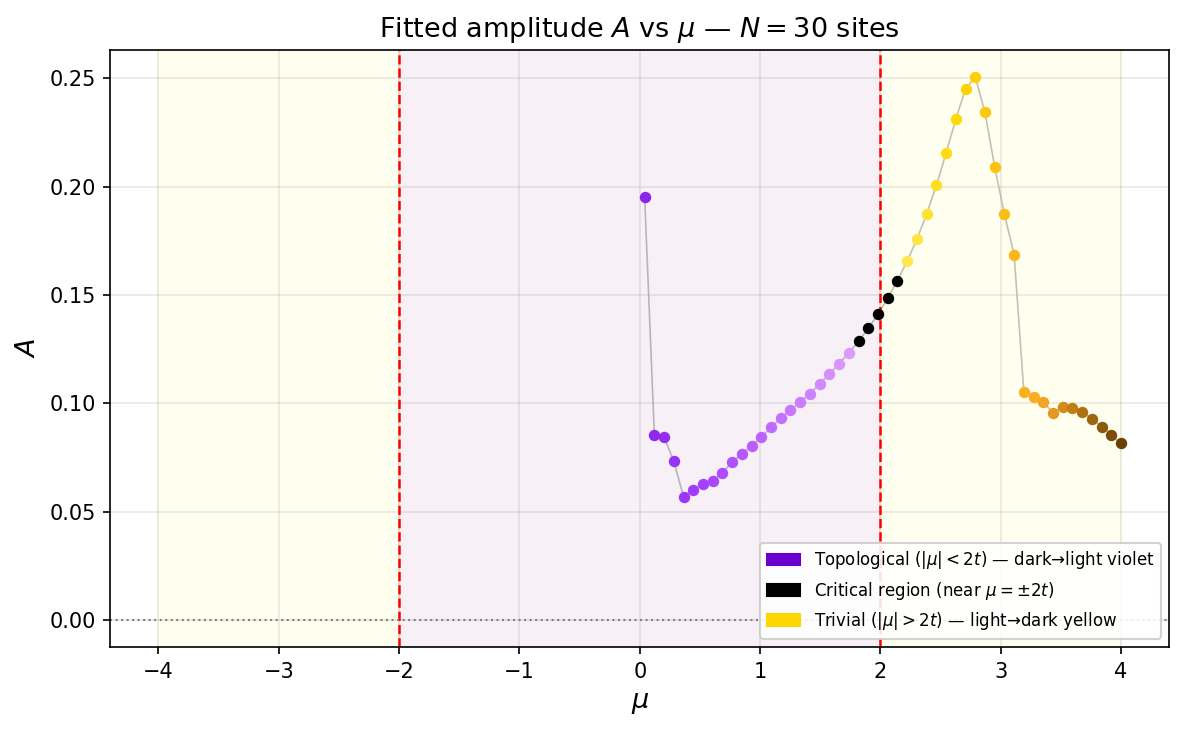
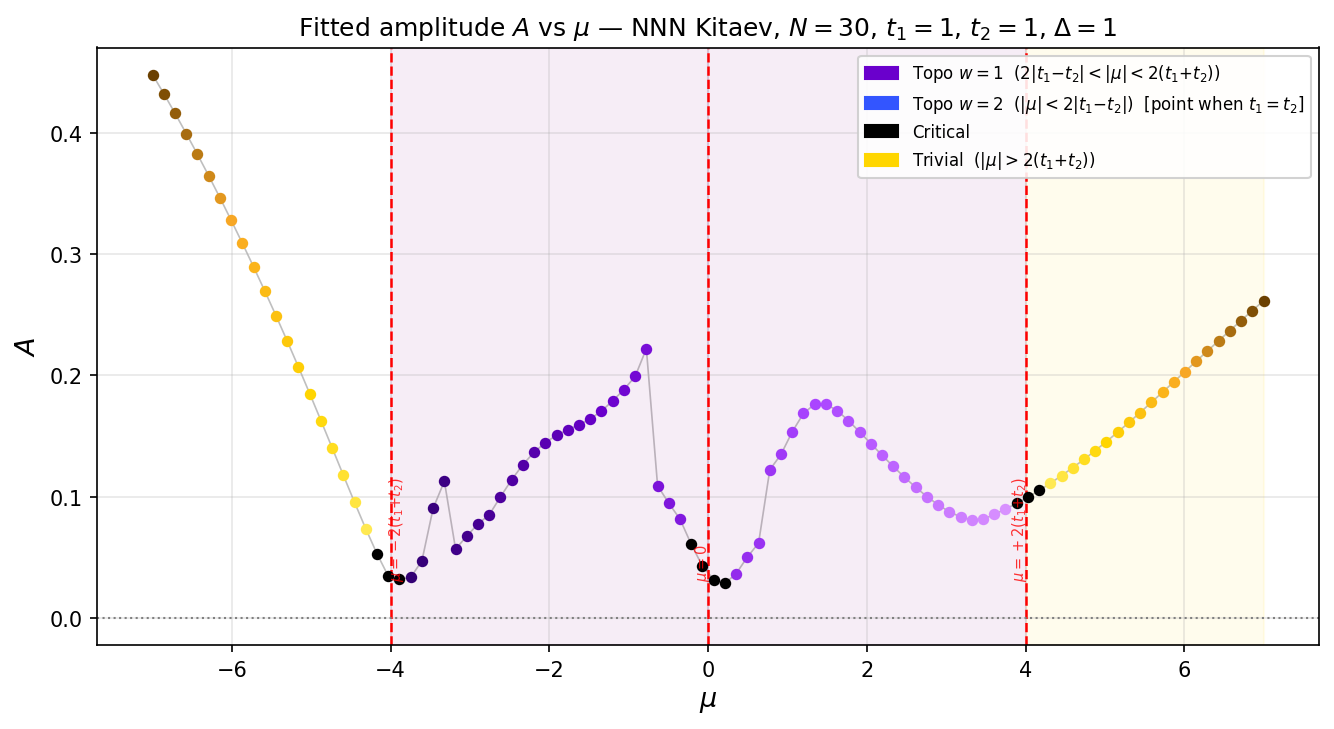
NNN2

diff --git a/two_body_basis.py b/two_body_basis.py
@@ -13,7 +13,7 @@ t= 1
 delta = 1
 
 N = 30
-BC = 1
+BC = 0
 O_init = np.zeros((2*N,2*N), dtype=complex)
 site = 0    # mi
 w = 30
